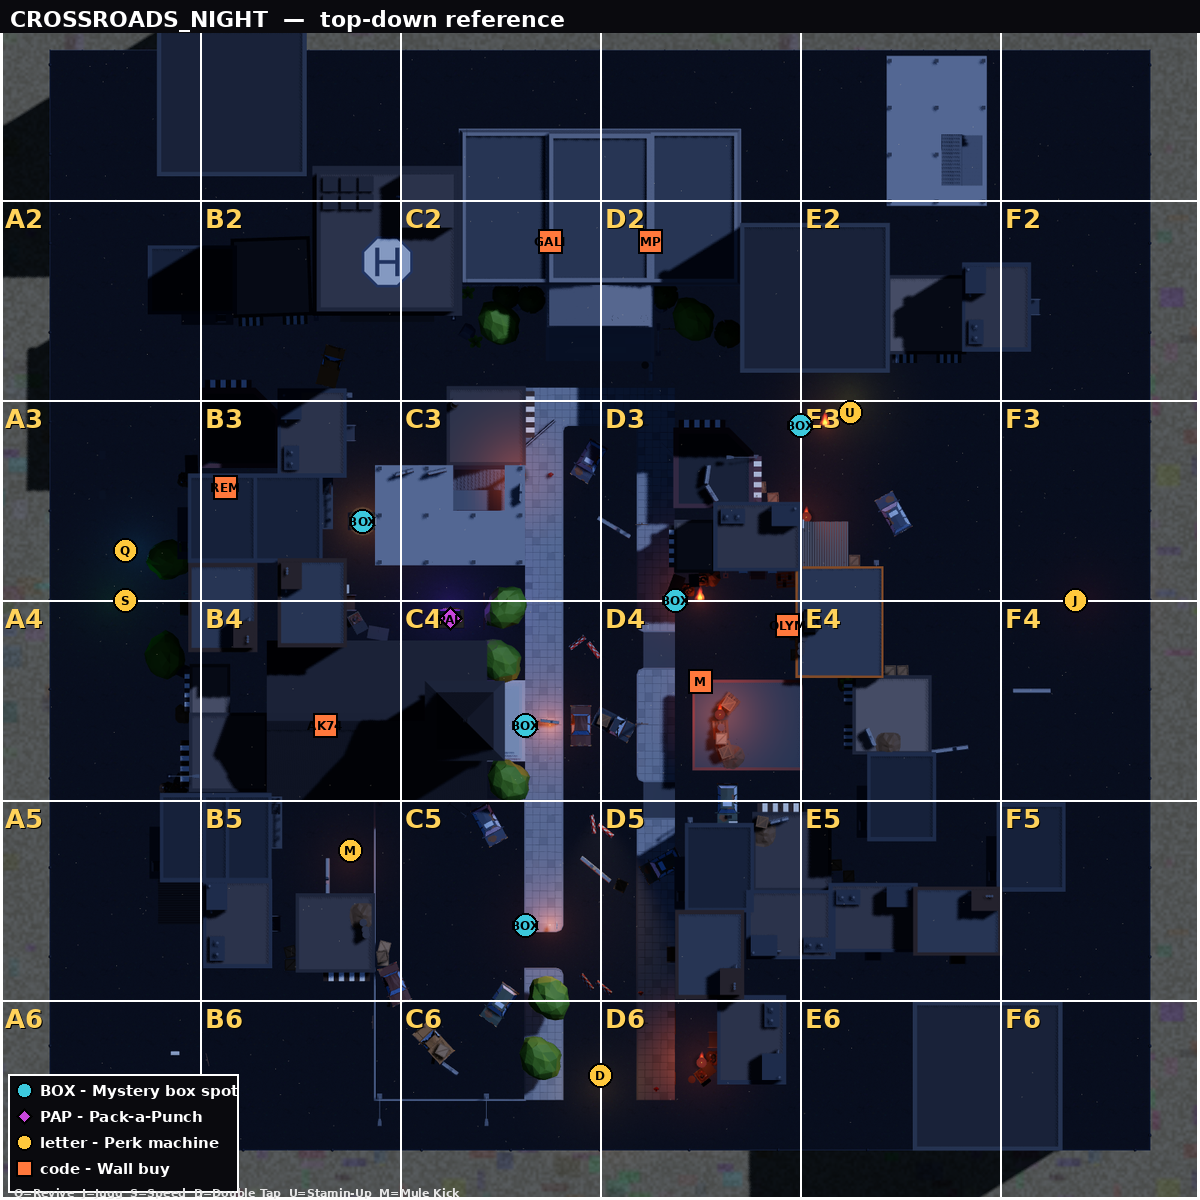
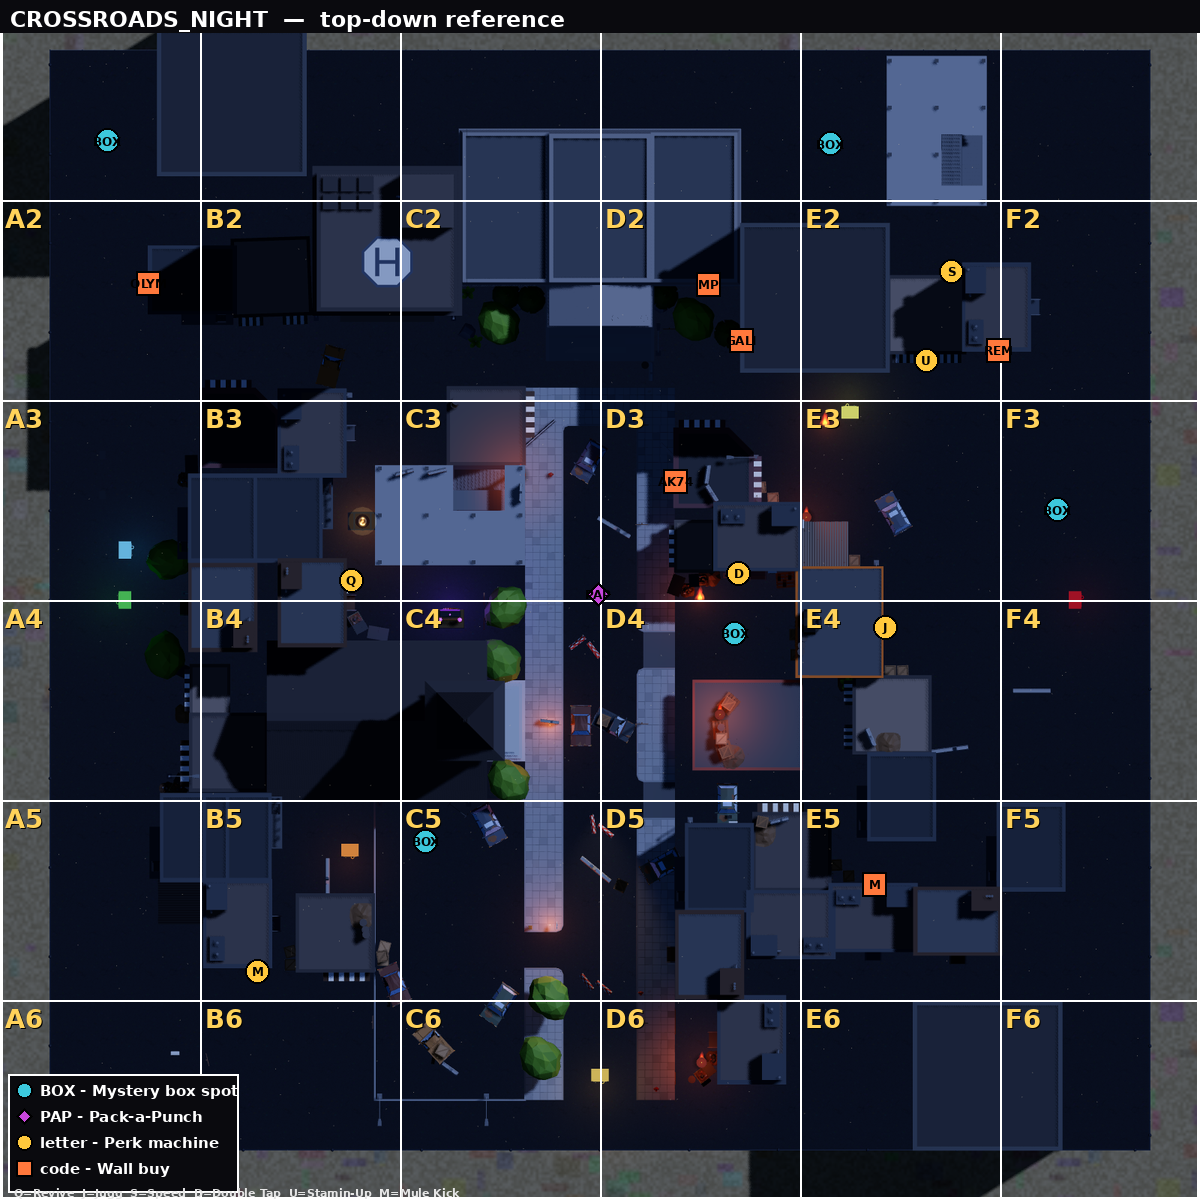
Apply Map Editor placements to Crossroads (for real this time)
BOX_SPOTS, both equip buys, all six wall buys (mp5 included this
round), both ammo buys, all six perk machines, and Pack-a-Punch moved
to a new layout from a Map Editor export - this one actually labeled
and authored against Crossroads, unlike the mix-up a few commits back.
Applies to both Crossroads Day and Night, which share buildCrossroads()
for all of this.

diff --git a/public/index.html b/public/index.html
@@ -2673,11 +2673,11 @@ function buildCrossroads(night){
     torch.intensity=0.16;
   }
   SPAWN_AT.set(-38,0,-10); SPAWN_YAW=-Math.PI/2;
-  addEquipBuy('grenade',SPAWN_AT.x-1.8,0,SPAWN_AT.z-1.6,SPAWN_YAW+Math.PI);
-  addEquipBuy('claymore',SPAWN_AT.x-1.8,0,SPAWN_AT.z+1.6,SPAWN_YAW+Math.PI);
+  addEquipBuy('grenade',-8.44,0,13.62,1.57);
+  addEquipBuy('claymore',-8.9,0,5.7,1.57);
   SPAWNS=[[-13.6,-37.9],[14,-40],[-21,-37.7],[20,-36],[-36,-20],[38,-20],
     [-36,0],[36,0],[-37.9,20.7],[40,20],[-20,36],[20,36]];
-  BOX_SPOTS=[[6,0],[-6,10],[-19,-6.3],[-6,26],[16,-14]];
+  BOX_SPOTS=[[10.79,2.64],[18.43,-36.49],[-39.42,-36.75],[-13.95,19.28],[36.56,-7.22]];
 
   if(night){
     worldRoot.add(new THREE.HemisphereLight(0x2a3a5c,0x141018,0.5));
@@ -3102,22 +3102,22 @@ function buildCrossroads(night){
   chain(-BND,-BND,BND,-BND); chain(-BND,BND,BND,BND);
 
   /* ---- buys ---- */
-  addWallBuy('m14',8.0,2.0,6.5,Math.PI/2);
-  addWallBuy('ak74u',-22,2.0,10,-Math.PI/2);
-  addWallBuy('mp5',4,2.0,-28.72,0);
-  addWallBuy('galil',-4,2.0,-28.72,Math.PI);
-  addWallBuy('olympia',15,2.0,2,Math.PI/2);
-  addWallBuy('rem870',-30,2.0,-9,Math.PI/2);
-  addAmmoBuy('m1911',3,2.0,-3,0,250);
-  addAmmoBuy('m4a1',-3,2.0,4,Math.PI,400);
+  addWallBuy('m14',21.99,2,22.75,-3.11);
+  addWallBuy('ak74u',6.02,2,-9.49,-1.57);
+  addWallBuy('mp5',8.68,2,-25.24,0);
+  addWallBuy('galil',11.3,2,-20.76,-1.53);
+  addWallBuy('olympia',-36.1,2,-25.33,-1.61);
+  addWallBuy('rem870',31.89,2,-20,-0.04);
+  addAmmoBuy('m1911',-7.39,2,-10.91,0,250);
+  addAmmoBuy('m4a1',15.04,2,-7.76,3.14,400);
 
-  addPerkMachine('revive',-38,-4,0,-Math.PI/2);
-  addPerkMachine('jugg',38,0,0,-Math.PI/2);
-  addPerkMachine('speed',-38,0,0,Math.PI/2);
-  addPerkMachine('dtap',0,38,0,Math.PI);
-  addPerkMachine('stamin',20,-15,0,0);
-  addPerkMachine('mule',-20,20,0,Math.PI);
-  addPackAPunch(-12,1.5,0);
+  addPerkMachine('revive',-19.91,-1.6,0,-1.57);
+  addPerkMachine('jugg',22.85,2.16,0,-1.57);
+  addPerkMachine('speed',28.15,-26.32,0,0.03);
+  addPerkMachine('dtap',11.1,-2.14,0,3.14);
+  addPerkMachine('stamin',26.09,-19.17,0,-3.12);
+  addPerkMachine('mule',-27.4,29.72,0,3.14);
+  addPackAPunch(-0.16,-0.46,0);
 
   if(night){
     /* ---- ash in the air, same drifting-particle setup as Town's night sky ---- */
